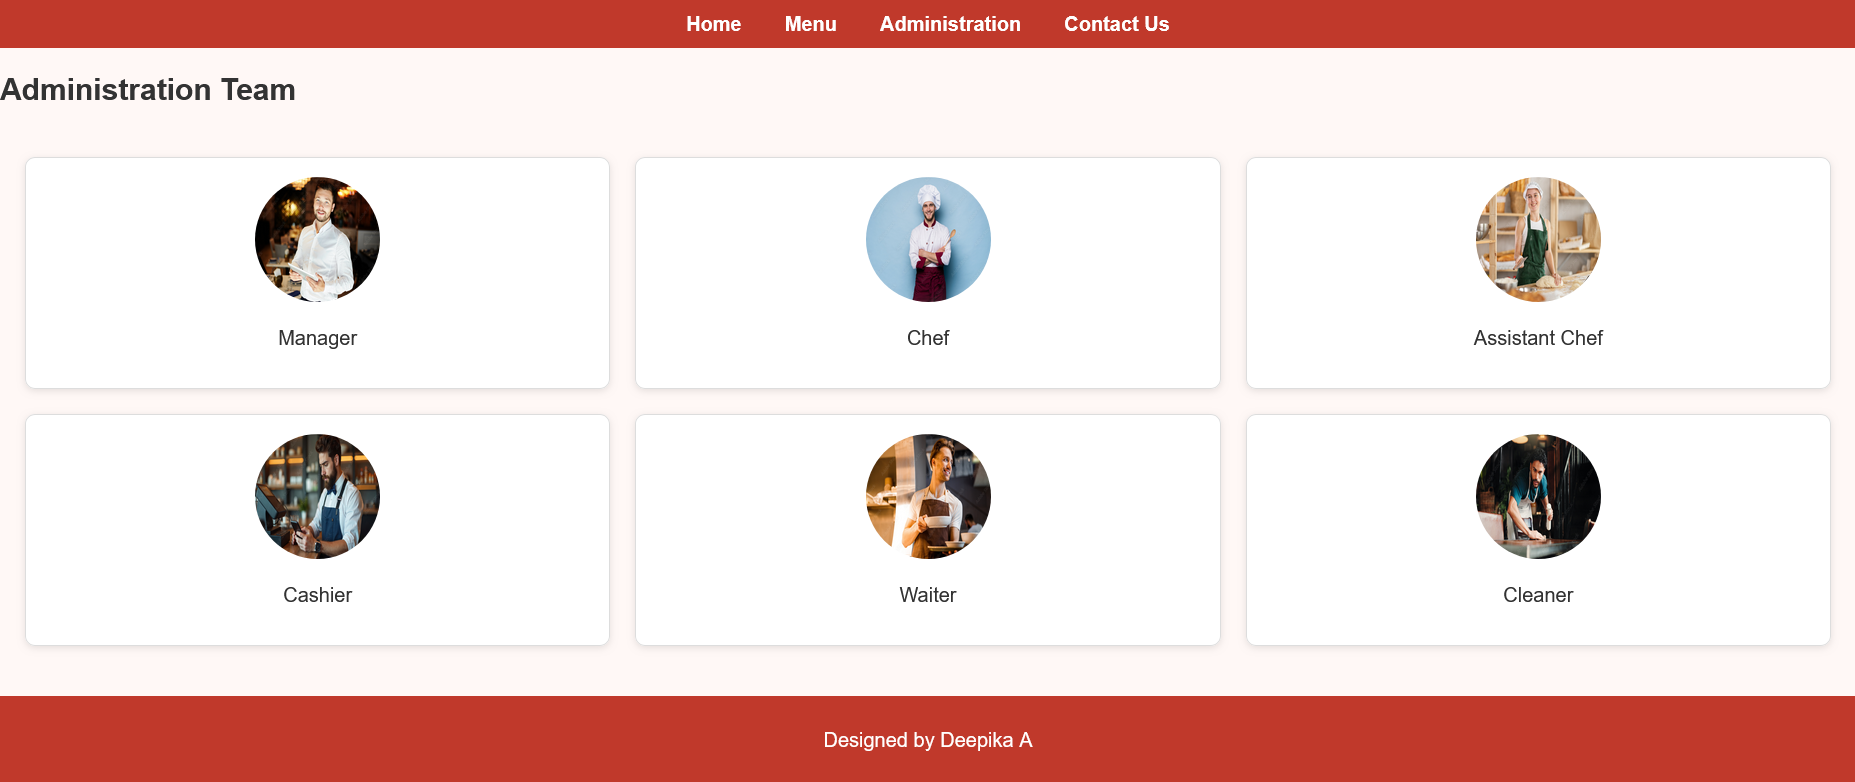
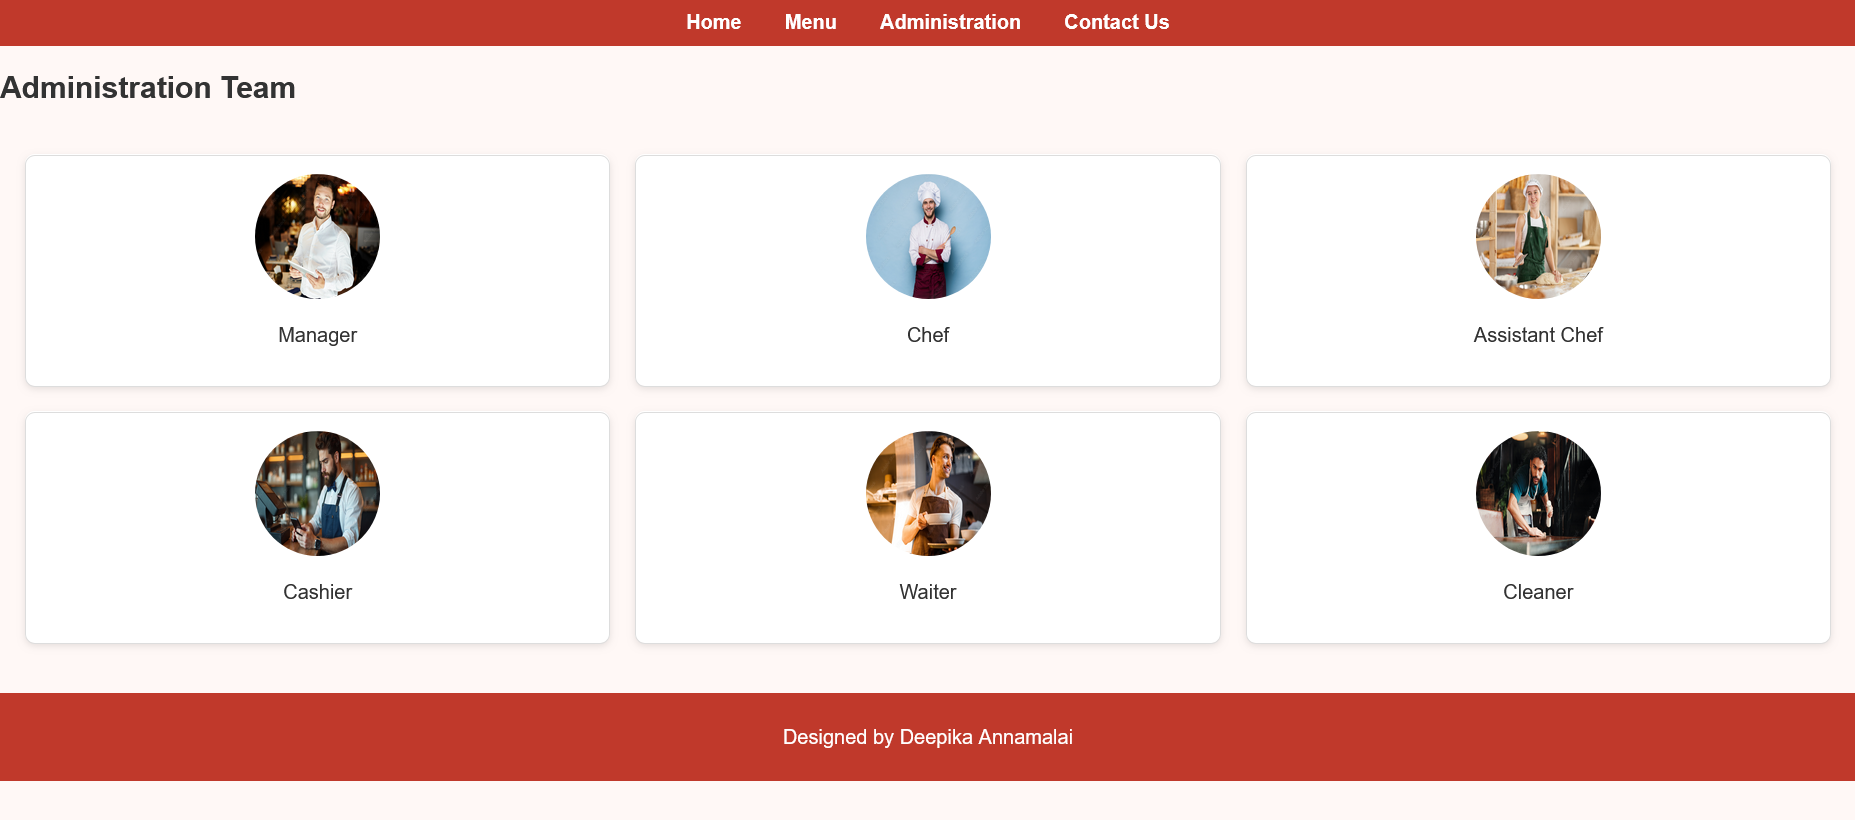
success

diff --git a/deepika/softapp/static/menu.html b/deepika/softapp/static/menu.html
@@ -65,7 +65,7 @@
       <p>₹80</p>
     </div>
     <div class="item">
-      <img src="IceCream.png" alt="Ice Cream">
+      <img src="Ice Cream.png" alt="Ice Cream">
       <h3>Ice Cream</h3>
       <p>₹70</p>
     </div>
@@ -82,7 +82,7 @@
   </section>
 
   <footer>
-    <p>Designed by Deepika A</p>
+    <p>Designed by Deepika Annamalai</p>
   </footer>
 </body>
 </html>

diff --git a/deepika/softapp/static/contact.html b/deepika/softapp/static/contact.html
@@ -22,7 +22,7 @@
   <p>Email: contact@princessrestaurant.com</p>
 
   <footer>
-    <p>Designed by Deepika A</p>
+    <p>Designed by Deepika Annamalai</p>
   </footer>
 </body>
 </html>

diff --git a/deepika/softapp/static/admin.html b/deepika/softapp/static/admin.html
@@ -27,7 +27,7 @@
   </section>
 
   <footer>
-    <p>Designed by Deepika A</p>
+    <p>Designed by Deepika Annamalai</p>
   </footer>
 </body>
 </html>
